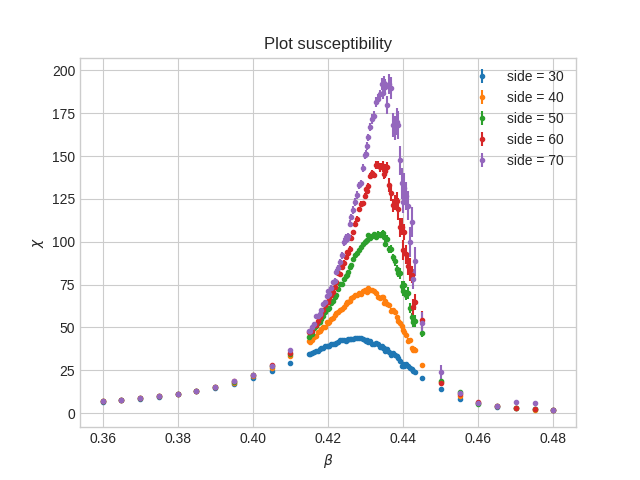
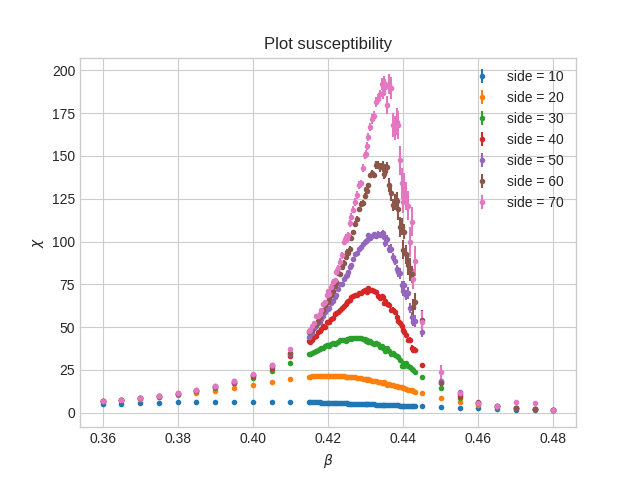
processing programs moved to Data_processing folder

diff --git a/Data_processing/critical_plots_subr.py b/Data_processing/critical_plots_subr.py
@@ -23,6 +23,9 @@ SIDE_SEP = 10
 sides = np.arange(SIDE_MIN, SIDE_MAX + 1, SIDE_SEP, dtype='int')
 logsides = np.log(sides)
 
+data_path = os.path.join("..", "Data_analysis")
+plot_path = os.path.join("..", "Plots_and_fit")
+
 #--- Contents ------------------------------------------------------------------
 
 def fit_lin(x, a, c):
@@ -44,7 +47,7 @@ def load_data():
     for side in sides:
         # define data file path
         filename = f"side_{side}_data.dat"
-        file_path = os.path.join("Data_analysis", filename)
+        file_path = os.path.join(data_path, filename)
         print("Loading " + file_path)
         # load data from each side file
         if os.path.isfile(file_path):
@@ -72,7 +75,7 @@ def plot_par_chi(x, y, y_err, a, b, parameters, title):
     plt.errorbar(x, y, yerr=y_err, fmt='.', label=f'simulation')
     # legend, save and show
     plt.legend(loc='lower right')
-    path = os.path.join("Plots_and_fit", "Max_Sus")
+    path = os.path.join(plot_path, "Max_Sus")
     plt.savefig(os.path.join(path, title + ".png"))
     #plt.show()
 
@@ -94,7 +97,7 @@ def plot_par_cal(x, y, y_err, a, b, parameters, title):
     plt.errorbar(x, y, yerr=y_err, fmt='.', label=f'simulation')
     # legend, save and show
     plt.legend(loc='lower right')
-    path = os.path.join("Plots_and_fit", "Max_Cal")
+    path = os.path.join(plot_path, "Max_Cal")
     plt.savefig(os.path.join(path, title + ".png"))
     #plt.show()
 
@@ -118,7 +121,7 @@ def plot_beta_critical(beta_pc, beta_er, parameters):
     plt.errorbar(sides, beta_pc, yerr=beta_er, fmt='.', label=f'simulation')
     # legend, save and show
     plt.legend(loc='lower right')
-    plt.savefig(os.path.join("Plots_and_fit", title + ".png"))
+    plt.savefig(os.path.join(plot_path, title + ".png"))
     #plt.show()
 
 def plot_critical_chi(y_max, y_err, parameters):
@@ -140,7 +143,7 @@ def plot_critical_chi(y_max, y_err, parameters):
     plt.errorbar(logsides, y_max, yerr=y_err, fmt='<',label=sim_label)
     # legend, save and show
     plt.legend(loc='lower right')
-    plt.savefig(os.path.join("Plots_and_fit", title + ".png"))
+    plt.savefig(os.path.join(plot_path, title + ".png"))
     #plt.show()
 
 def plot_critical_mag(y_max, y_err, parameters):
@@ -162,7 +165,7 @@ def plot_critical_mag(y_max, y_err, parameters):
     plt.errorbar(logsides, y_max, yerr=y_err, fmt='<',label=sim_label)
     # legend, save and show
     plt.legend(loc='upper right')
-    plt.savefig(os.path.join("Plots_and_fit", title + ".png"))
+    plt.savefig(os.path.join(plot_path, title + ".png"))
     #plt.show()
 
 def plot_critical_cal(y_max, y_err, parameters):
@@ -184,7 +187,7 @@ def plot_critical_cal(y_max, y_err, parameters):
     plt.errorbar(logsides, y_max, yerr=y_err, fmt='<',label=sim_label)
     # legend, save and show
     plt.legend(loc='lower right')
-    plt.savefig(os.path.join("Plots_and_fit", title + ".png"))
+    plt.savefig(os.path.join(plot_path, title + ".png"))
     #plt.show()
 
 #--- Size-scaling subroutines --------------------------------------------------
@@ -209,7 +212,7 @@ def plot_chi_scaling(data, beta_c, ratio, nu):
         plt.errorbar(x, y, yerr=y_err, fmt='.', label=f'side = {side}')
     # save and show
     plt.legend(loc='upper right')
-    plt.savefig(os.path.join("Plots_and_fit", title + ".png"))
+    plt.savefig(os.path.join(plot_path, title + ".png"))
     #plt.show()
 
 def plot_mag_scaling(data, beta_c, ratio, nu):
@@ -232,7 +235,7 @@ def plot_mag_scaling(data, beta_c, ratio, nu):
         plt.errorbar(x, y, yerr=y_err, fmt='.', label=f'side = {side}')
     # save and show
     plt.legend(loc='upper right')
-    plt.savefig(os.path.join("Plots_and_fit", title + ".png"))
+    plt.savefig(os.path.join(plot_path, title + ".png"))
     #plt.show()
 
 def plot_cal_scaling(data, beta_c, param, nu):
@@ -255,5 +258,5 @@ def plot_cal_scaling(data, beta_c, param, nu):
         plt.errorbar(x, y, yerr=y_err, fmt='.', label=f'side = {side}')
     # save and show
     plt.legend(loc='upper right')
-    plt.savefig(os.path.join("Plots_and_fit", title + ".png"))
+    plt.savefig(os.path.join(plot_path, title + ".png"))
     #plt.show()

diff --git a/Data_processing/cumulant_and_plots.py b/Data_processing/cumulant_and_plots.py
@@ -18,13 +18,16 @@ from scipy.optimize import curve_fit
 #*******************************************************************************
 
 SIDE_SEP = 10
-SIDE_MIN = 30
+SIDE_MIN = 10
 SIDE_MAX = 70
 
 BETA_INI = 0.3800
 BETA_FIN = 0.4800
 
 sides = np.arange(SIDE_MIN, SIDE_MAX+1, SIDE_SEP, dtype='int')
+
+data_path = os.path.join("..", "Data_analysis")
+plot_path = os.path.join("..", "Plots_and_fit")
 
 #--- Contents ------------------------------------------------------------------
 
@@ -39,7 +42,7 @@ def load_data():
     for side in sides:
         # define data file path
         filename = f"side_{side}_data.dat"
-        file_path = os.path.join("Data_analysis", filename)
+        file_path = os.path.join(data_path, filename)
         print("Loading " + file_path)
         # load data from each side file
         if os.path.isfile(file_path):
@@ -52,7 +55,7 @@ def load_cumulant(beta):
 
     # define data file path
     filename = f"cumulant_beta_{beta:.6f}_data.dat"
-    file_path = os.path.join("Data_analysis", filename)
+    file_path = os.path.join(data_path, filename)
     print("Loading " + file_path)
     # load data from each side file
     if not os.path.isfile(file_path):
@@ -80,7 +83,7 @@ def plot_susceptibility(data):
         plt.errorbar(x, y, yerr=y_err, fmt='.', label=f'side = {side}')
     # save and show
     plt.legend(loc='upper right')
-    plt.savefig(os.path.join("Plots_and_fit", title + ".png"))
+    plt.savefig(os.path.join(plot_path, title + ".png"))
     plt.show()
 
 def plot_magnetization(data):
@@ -100,7 +103,7 @@ def plot_magnetization(data):
         plt.errorbar(x, y, yerr=y_err, fmt='.', label=f'side = {side}')
     # save and show
     plt.legend(loc='lower right')
-    plt.savefig(os.path.join("Plots_and_fit", title + ".png"))
+    plt.savefig(os.path.join(plot_path, title + ".png"))
     plt.show()
 
 def plot_energy(data):
@@ -120,7 +123,7 @@ def plot_energy(data):
         plt.errorbar(x, y, yerr=y_err, fmt='.', label=f'side = {side}')
     # save and show
     plt.legend(loc='upper right')
-    plt.savefig(os.path.join("Plots_and_fit", title + ".png"))
+    plt.savefig(os.path.join(plot_path, title + ".png"))
     plt.show()
 
 def plot_specific_heat(data):
@@ -140,7 +143,7 @@ def plot_specific_heat(data):
         plt.errorbar(x, y, yerr=y_err, fmt='.', label=f'side = {side}')
     # save and show
     plt.legend(loc='upper right')
-    plt.savefig(os.path.join("Plots_and_fit", title + ".png"))
+    plt.savefig(os.path.join(plot_path, title + ".png"))
     plt.show()
 
 def plot_all(data):
@@ -176,7 +179,7 @@ def plot_all(data):
         axes[1, 1].errorbar(betas, chi, yerr=chi_err, fmt='.', label=f'side = {side}')
     # legend, save and show
     axes[0, 0].legend(loc='lower left')
-    plt.savefig(os.path.join("Plots_and_fit", title + ".png"))
+    plt.savefig(os.path.join(plot_path, title + ".png"))
     plt.show()
 
 #--- Cumulant ------------------------------------------------------------------
@@ -223,7 +226,7 @@ def cumulant(beta):
     plt.errorbar(recL, cumulan, yerr=cum_err, fmt='<',label=sim_label)
     # save and show
     plt.legend(loc='upper right')
-    plt.savefig(os.path.join("Plots_and_fit", title + ".png"))
+    plt.savefig(os.path.join(plot_path, title + ".png"))
     plt.show()
 
 #-------------------------------------------------------------------------------
@@ -239,5 +242,5 @@ if __name__ == '__main__':
 
     plot_all(data)
 
-    # cumulant(BETA_INI)
-    # cumulant(BETA_FIN)
+    cumulant(BETA_INI)
+    cumulant(BETA_FIN)

diff --git a/Data_processing/data_analysis.cpp b/Data_processing/data_analysis.cpp
@@ -66,8 +66,8 @@ mt19937_64 generator(SEED);
 
 #define BLOCKS 7
 #define MIN_CORR_LENGHT 1
-#define MAX_CORR_LENGHT 2048 // for side > 30
-#define NUM_FAKE_SAMP 150
+#define MAX_CORR_LENGHT 512
+#define NUM_FAKE_SAMP 10
 #define DIM_FAKE_SAMP 150000
 
 //--- Contents -----------------------------------------------------------------
@@ -209,7 +209,7 @@ void file_operations(int side, float beta, vector<double>& data, ofstream &file_
     string file_name;
     vector<double> energies, magnetis;
 
-    file_name = "Data_simulations/Side_" + to_string(side) + "/side_";
+    file_name = "../Data_simulations/Side_" + to_string(side) + "/side_";
     file_name += to_string(side) + "_beta_" + to_string(beta) + ".dat";
     ifstream file(file_name);
 
@@ -266,13 +266,14 @@ void file_operations(int side, float beta, vector<double>& data, ofstream &file_
 void cumulant_analysis(float beta){
     /* Compute Binder Cumulant and its error */
 
+    int index;
     double ene, mag;
     string file_path, file_name;
     vector<double> magnetis;
     ofstream file_data, file_analysis;
 
     // define the output path of the files
-    file_path = "Data_analysis/cumulant_beta_" + to_string(beta);
+    file_path = "../Data_analysis/cumulant_beta_" + to_string(beta);
     // open the data and logging files
     file_name =  file_path + "_analysis.txt";
     cout << "Creating file: " << file_name << endl;
@@ -285,15 +286,24 @@ void cumulant_analysis(float beta){
     for(int side = SIDE_MIN; side <= SIDE_MAX; side += SIDE_SEP){
 
         // open the simulation data file
-        file_name = "Data_simulations/Side_" + to_string(side) + "/side_";
+        file_name = "../Data_simulations/Side_" + to_string(side) + "/side_";
         file_name += to_string(side) + "_beta_" + to_string(beta) + ".dat";
         ifstream file(file_name);
 
         if (file.is_open()) {
             // load data and compute averages
+            index = 0;
             while (file >> ene >> mag){
-                mag = abs(mag);
-                magnetis.push_back(mag);
+                if(side > 30){
+                    index++;
+                    if(index > 20000){
+                        mag = abs(mag);
+                        magnetis.push_back(mag);
+                    }
+                } else {
+                    mag = abs(mag);
+                    magnetis.push_back(mag);
+                }
             }
             file.close();
 
@@ -340,7 +350,7 @@ void partial_analysis(){
     cout << "Insert side lenght: ";
     cin >>  side_in;
     cout << endl;
-    file_path = "Data_analysis/side_" + to_string(side_in);
+    file_path = "../Data_analysis/side_" + to_string(side_in);
     // open the data and logging files
     file_name =  file_path + "_analysis.txt";
     cout << "Creating file: " << file_name << endl;
@@ -386,7 +396,7 @@ void complete_analysis(){
     for(int side = SIDE_MIN; side <= SIDE_MAX; side += SIDE_SEP){
 
         // define the path
-        file_path = "Data_analysis/side_" + to_string(side);
+        file_path = "../Data_analysis/side_" + to_string(side);
         // open the data and logging files
         file_name =  file_path + "_analysis.txt";
         cout << "Creating file: " << file_name << endl;
@@ -424,7 +434,7 @@ int main(){
     auto start = chrono::steady_clock::now();
     // partial_analysis();
     // complete_analysis();
-    cumulant_analysis(BETA_CUM_MIN);
+    // cumulant_analysis(BETA_CUM_MIN);
     cumulant_analysis(BETA_CUM_MAX);
     auto end = chrono::steady_clock::now();
 

diff --git a/class_lattice.h b/class_lattice.h
@@ -165,13 +165,12 @@ public:
         /* Update the state of the lattice with a MC step */
 
         int ind;
-        double random_number, force;
+        double force;
 
         // Metropolis-Hastings algorithm per Ising
         for(int it = 0; it < tot_lenght_; it++){
            force = 0.;
            ind = rand_int();
-           random_number = rand_double();
 
            // MC step for the site with index ind
            for(auto nn : nearest_neighbors_[ind]) force += latt_conf[nn];
@@ -181,7 +180,7 @@ public:
            force = exp(-2.0 * force * latt_conf[ind]);
 
            // accept or reject step
-           if (random_number < force) latt_conf[ind] = -latt_conf[ind];
+           if (force > rand_double()) latt_conf[ind] = -latt_conf[ind];
         }
     }
 

diff --git a/ising_parallel.cpp b/ising_parallel.cpp
@@ -48,7 +48,7 @@ using namespace std;
 
 // sides to simulate
 #define SIDE_SEP 10
-#define SIDE_MIN 40
+#define SIDE_MIN 10
 #define SIDE_MAX 70
 // outer betas -> 24 points
 #define BETA_SEP 0.0050
@@ -61,9 +61,9 @@ using namespace std;
 // number of measures to save
 #define MEASURES 1000
 // decorrelation between measures
-#define I_DECORREL 50 // * V
+#define I_DECORREL 10 // * V
 // initialization flags
-#define I_FLAG 1
+#define I_FLAG 2
 #define G_FLAG 2
 // external field
 #define EXTFIELD 0.

diff --git a/Data_processing/critical_exponents.py b/Data_processing/critical_exponents.py
@@ -79,7 +79,6 @@ def parabolic_fit_chi(data):
         chi_err.append(y_max.std_dev)
         # plot data and fit
         title = f"Fit max susceptibility side: {side} "
-        print(title + "\n")
         plot_par_chi(x, y, y_err, a, b, parameters, title)
 
     return beta_pc, beta_er, chi_max, chi_err
